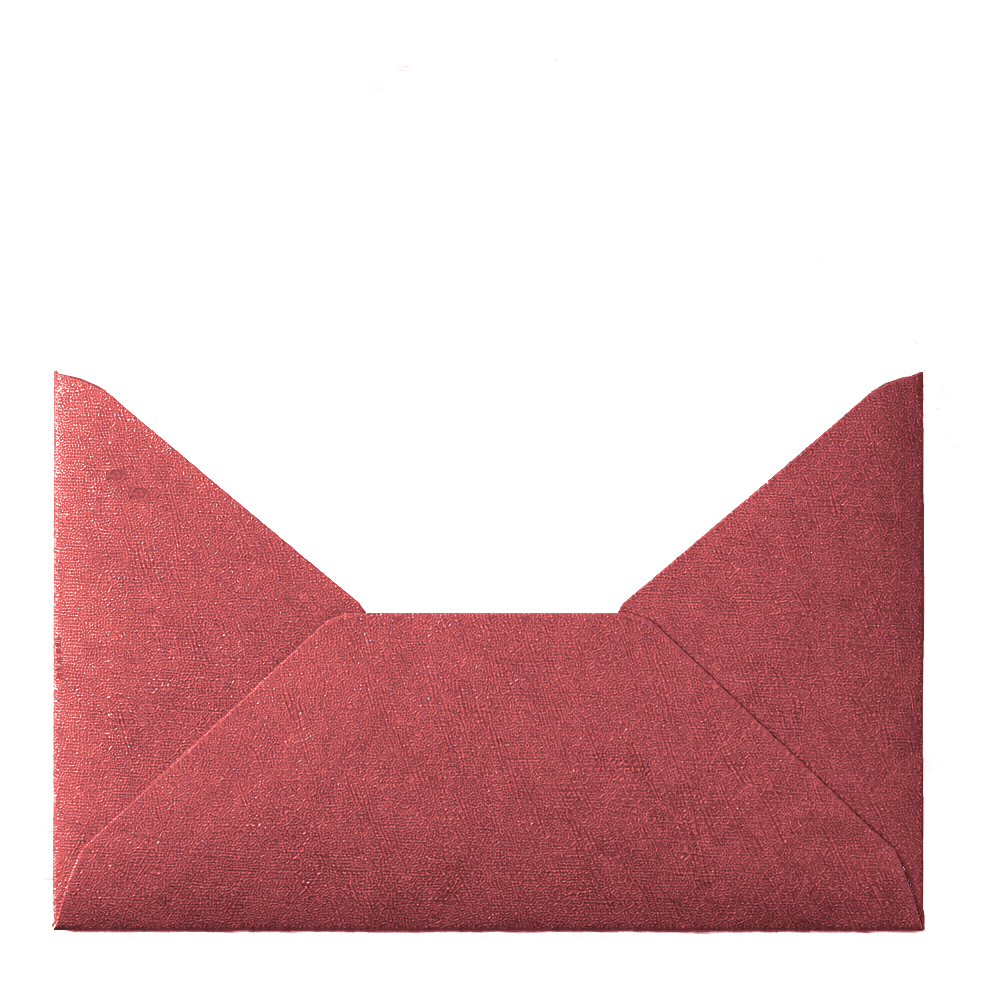
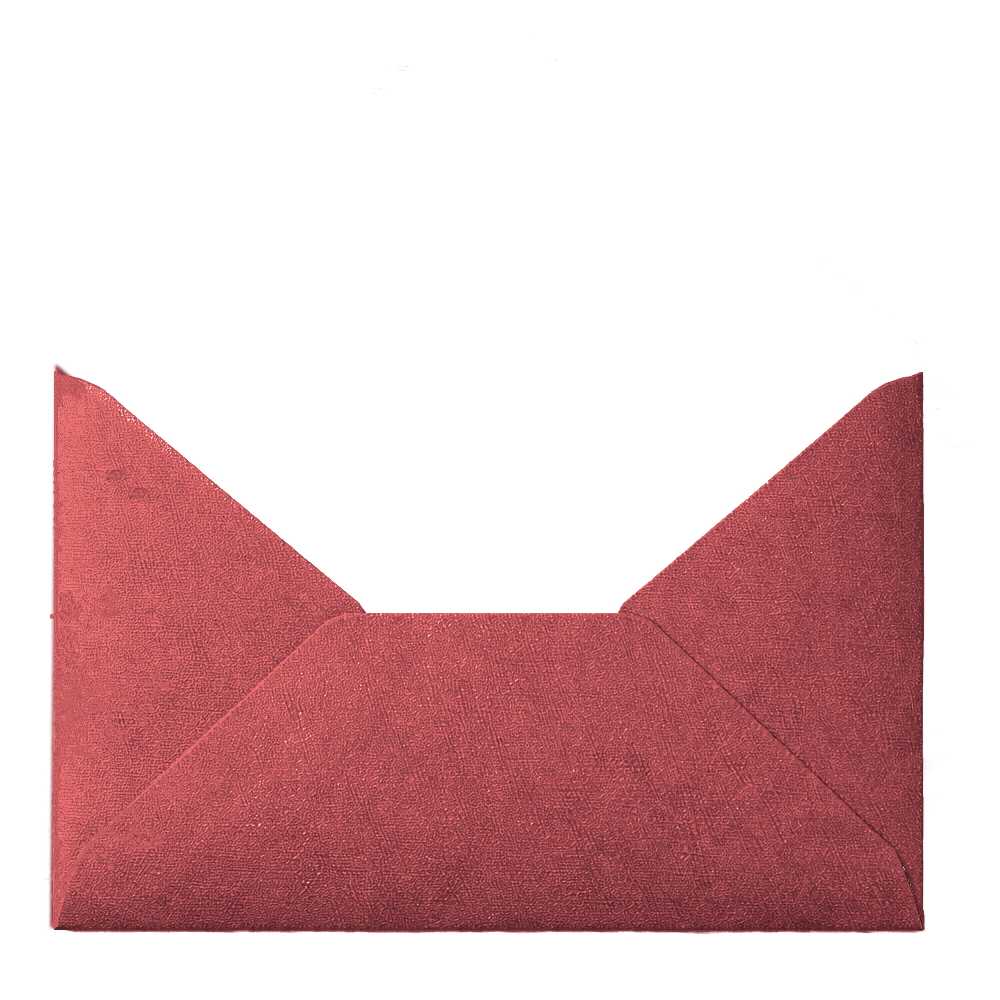
updated alot

Changed region(s): [[0.031, 0.372, 0.124, 0.93], [0.124, 0.837, 0.155, 0.868]]

diff --git a/src/routes/+page.svelte b/src/routes/+page.svelte
@@ -13,9 +13,13 @@
     function handleRSVP() {
         goto('/RSVP');
     }
+    function handleNavigation() {
+        goto('/Navigation');
+    }
     let isOpen = $state(false);
     let hoverCard = $state(false);
     let hoverticket = $state(false);
+    let hoverNav = $state(false);
     // auto-pop the card when envelope opens
     $effect(() => {
         if (isOpen) {
@@ -65,9 +69,27 @@
     </div> -->
 
     <div 
-      class="absolute inset-0 flex items-center justify-center pointer-events-none z-10" 
+      class="absolute inset-0 grid grid-cols-3 sm:grid-cols-3 md:grid-cols-3 items-center justify-center pointer-events-none z-10" 
     >
-        <div class="bg-white bg-opacity-90 p-4 rounded-lg pointer-events-auto shadow-lg w-[clamp(6rem,15vw,20rem)] rotate-5 translate-x-[clamp(80px,45vw,390px)] transition-transform duration-300"
+        <div class="relative p-4 rounded-lg pointer-events-auto  w-45 sm:w-80 md:w-100 -rotate-5  rotate-80 translate-x-1 sm:translate-x-7 md:translate-x-10 transition-transform duration-300 cursor-pointer pointer-events-auto"
+        on:mouseenter={() => hoverNav = true}
+        on:mouseleave={() => hoverNav = false}
+        on:click={handleNavigation}
+        class:scale-110={hoverNav}
+        class:-translate-y-4={hoverNav}
+        >
+        <img src="/img/compass.png" alt="Ticket" class="w-full h-auto object-fit max-h-[80vh]" />
+        </div>
+        <div class="relative p-4 rounded-lg pointer-events-auto  w-40 sm:w-80 md:w-100 -rotate-5  rotate-80 transition-transform duration-300 -translate-x-4 sm:translate-x-7 md:-translate-x-1 cursor-pointer pointer-events-auto"
+        on:mouseenter={() => hoverticket = true}
+        on:mouseleave={() => hoverticket = false}
+        on:click={handleRSVP}
+        class:scale-110={hoverticket}
+        class:-translate-y-4={hoverticket}
+        >
+        <img src="/img/ticket.png" alt="Ticket" class="w-full h-auto object-fit max-h-[90vh]" />
+        </div>
+        <div class="bg-white bg-opacity-90 p-4 rounded-lg pointer-events-auto shadow-lg w-[clamp(6rem,15vw,20rem)] rotate-5 -translate-x-6.5 md:-translate-x-25 transition-transform duration-300"
             class:scale-110={hoverCard}
             class:-translate-y-4={hoverCard}
             on:mouseenter={() => hoverCard = true}
@@ -75,15 +97,6 @@
             out:fade={{ duration: 100 }}
         >
             <img src="/img/photo_card.png" alt="Photo card" class="w-full h-auto object-fit max-h-[80vh]" />
-        </div>
-        <div class="relative p-4 rounded-lg pointer-events-auto  w-40 sm:w-80 md:w-100 -rotate-5 -translate-x-10 sm:-translate-x-25 md:-translate-x-40 rotate-80 transition-transform duration-300 cursor-pointer pointer-events-auto"
-        on:mouseenter={() => hoverticket = true}
-        on:mouseleave={() => hoverticket = false}
-        on:click={handleRSVP}
-        class:scale-110={hoverticket}
-        class:-translate-y-4={hoverticket}
-        >
-        <img src="/img/ticket.png" alt="Ticket" class="w-full h-auto object-fit max-h-[80vh]" />
         </div>
     </div>
 
